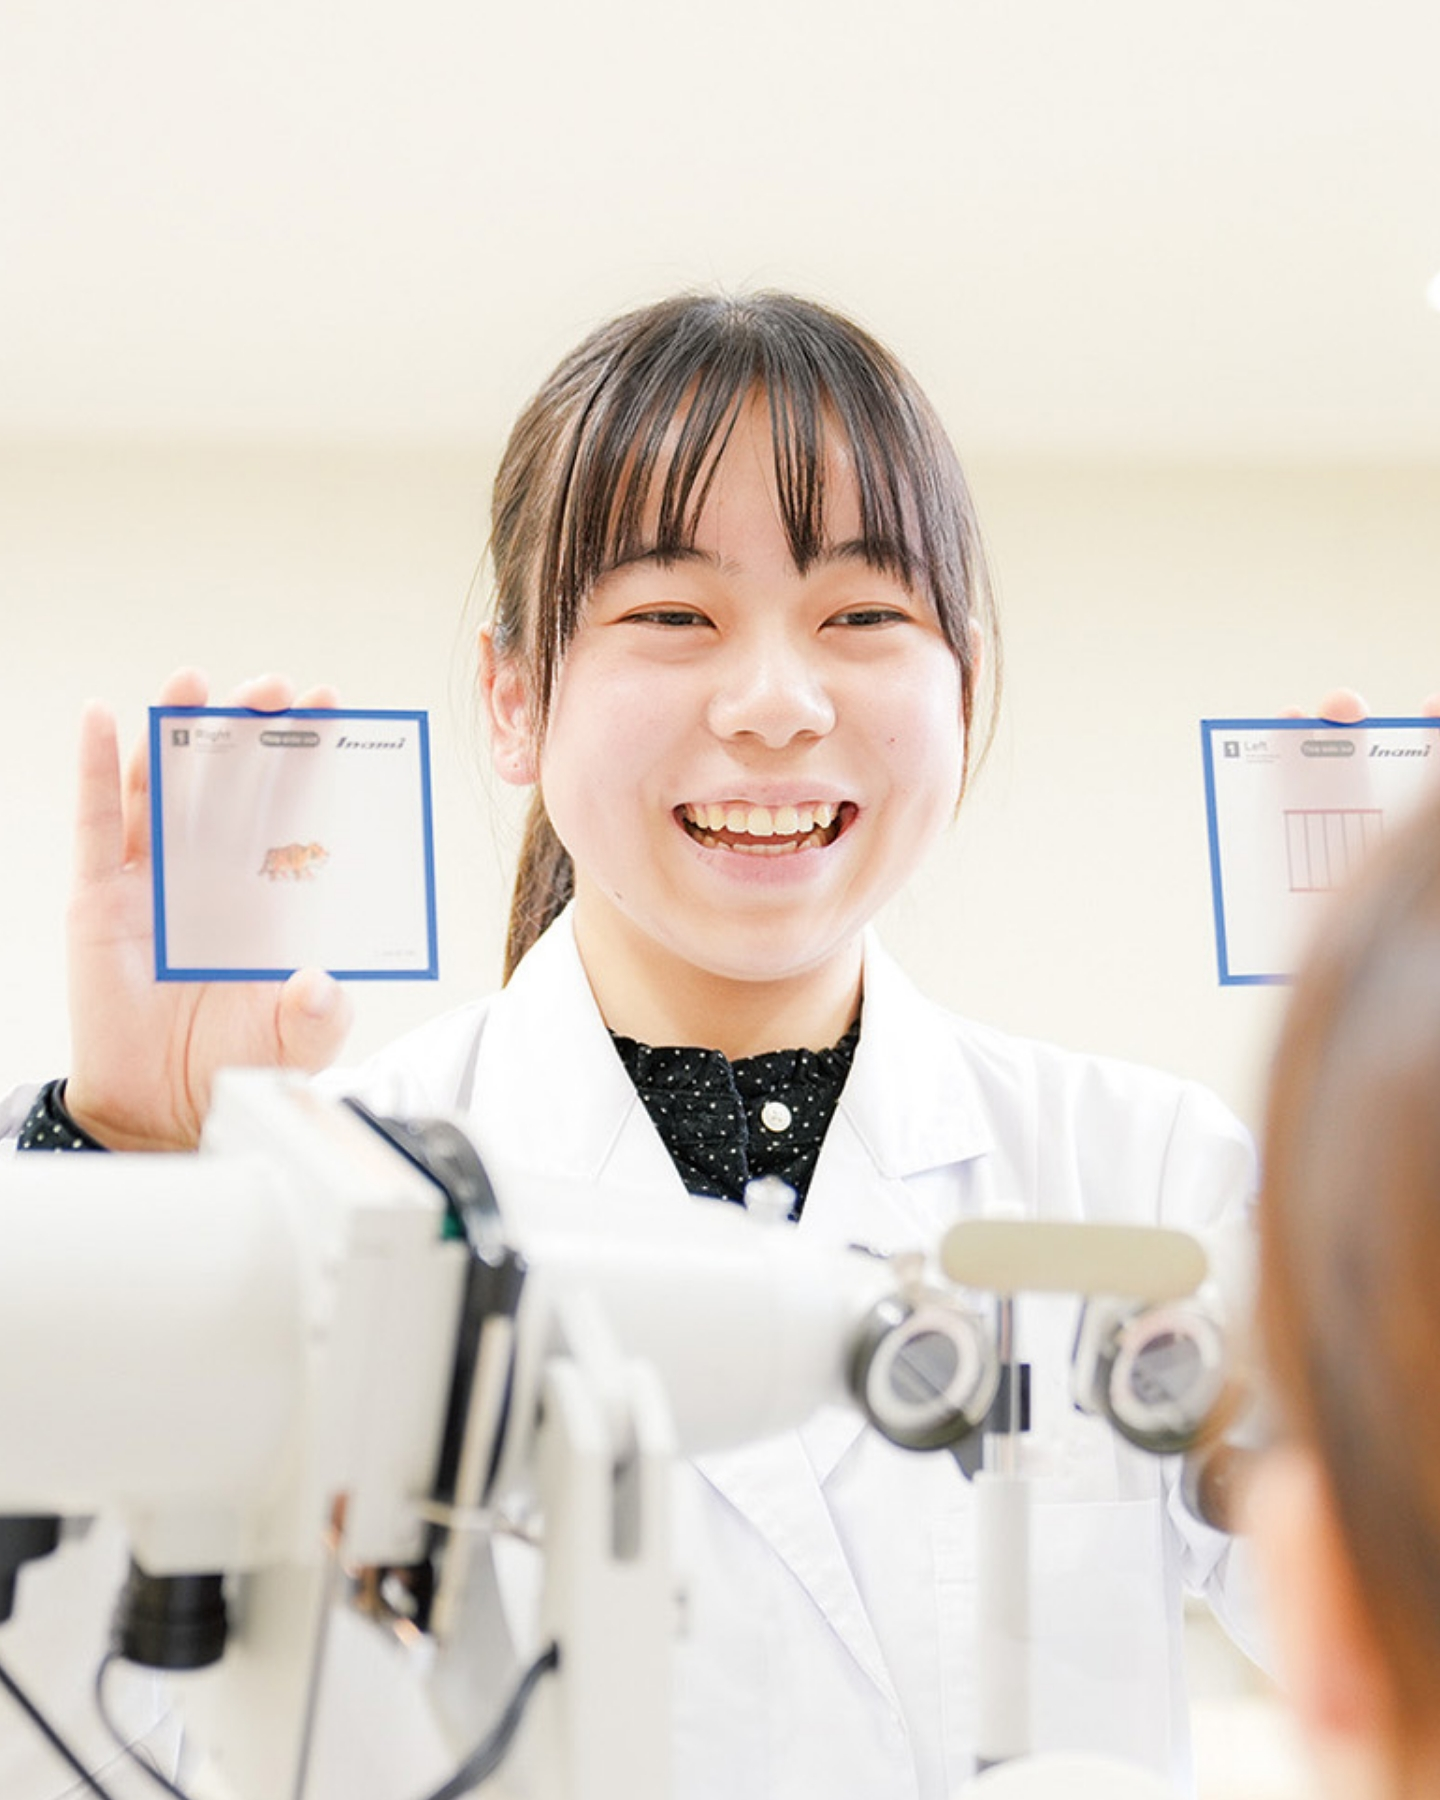
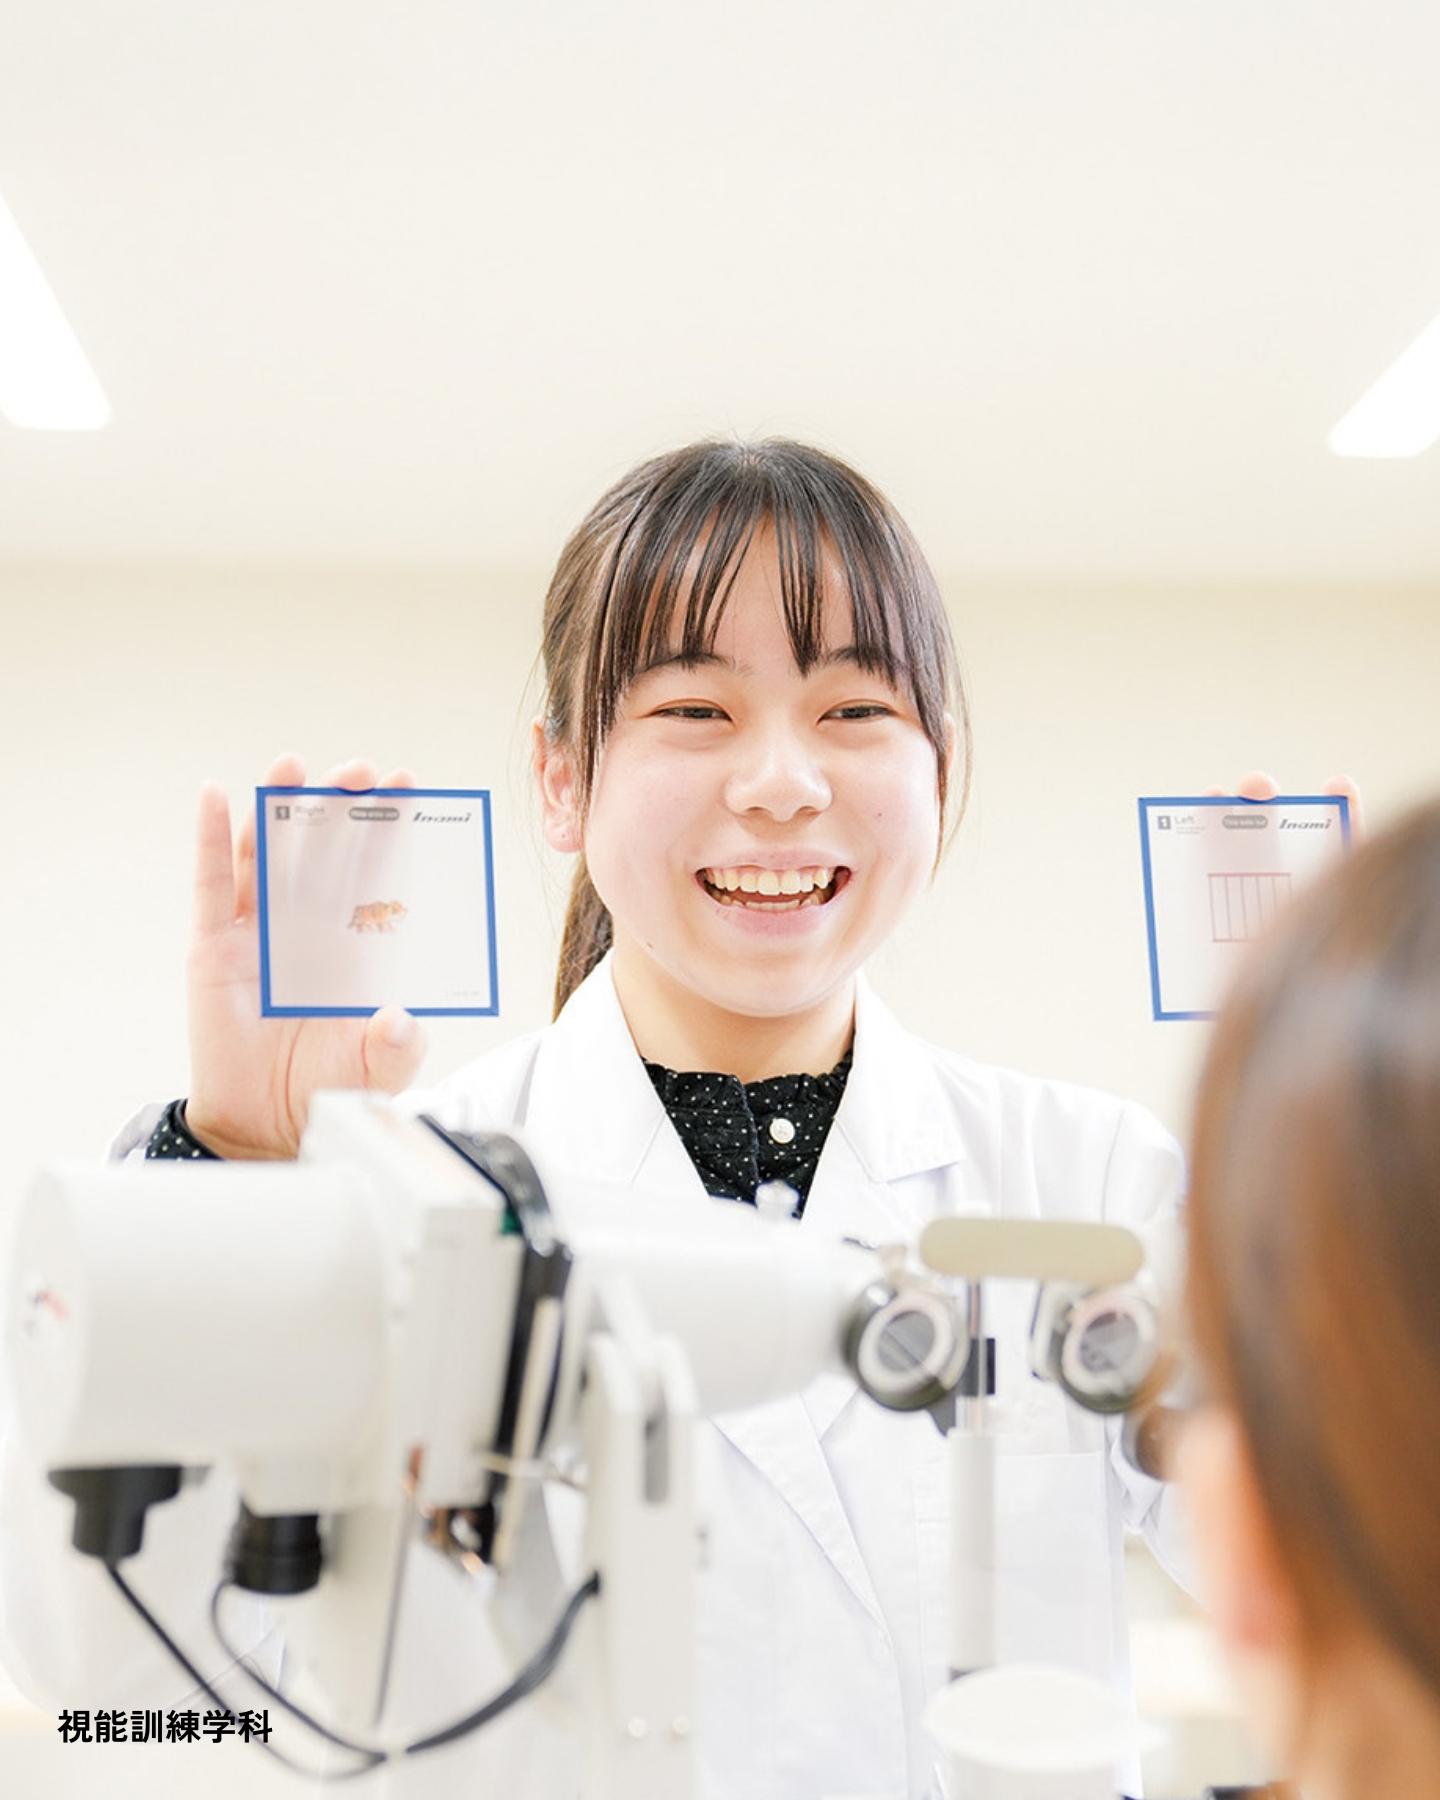
トップMVのSPスライダーをSP用画像に切り替え
- SP時のスライダー画像を mv_XX_sp.jpg（750×460）に変更
- PC用MV画像を差し替え

diff --git a/index.php b/index.php
@@ -50,15 +50,15 @@ include_once $_SERVER['DOCUMENT_ROOT'] . '/header.php';
       <div class="top-mv-sp-row">
         <div class="top-mv-track -left">
           <!-- 1周目 -->
-          <figure class="top-mv-item"><img src="/images/top/mv_01.jpg" alt="実習風景 1" width="375" height="230" loading="eager"></figure>
-          <figure class="top-mv-item"><img src="/images/top/mv_03.jpg" alt="実習風景 3" width="375" height="230" loading="eager"></figure>
-          <figure class="top-mv-item"><img src="/images/top/mv_05.jpg" alt="実習風景 5" width="375" height="230" loading="eager"></figure>
-          <figure class="top-mv-item"><img src="/images/top/mv_07.jpg" alt="実習風景 7" width="375" height="230" loading="eager"></figure>
+          <figure class="top-mv-item"><img src="/images/top/mv_01_sp.jpg" alt="実習風景 1" width="375" height="230" loading="eager"></figure>
+          <figure class="top-mv-item"><img src="/images/top/mv_03_sp.jpg" alt="実習風景 3" width="375" height="230" loading="eager"></figure>
+          <figure class="top-mv-item"><img src="/images/top/mv_05_sp.jpg" alt="実習風景 5" width="375" height="230" loading="eager"></figure>
+          <figure class="top-mv-item"><img src="/images/top/mv_07_sp.jpg" alt="実習風景 7" width="375" height="230" loading="eager"></figure>
           <!-- 2周目 -->
-          <figure class="top-mv-item" aria-hidden="true"><img src="/images/top/mv_01.jpg" alt="" width="375" height="230" loading="eager"></figure>
-          <figure class="top-mv-item" aria-hidden="true"><img src="/images/top/mv_03.jpg" alt="" width="375" height="230" loading="eager"></figure>
-          <figure class="top-mv-item" aria-hidden="true"><img src="/images/top/mv_05.jpg" alt="" width="375" height="230" loading="eager"></figure>
-          <figure class="top-mv-item" aria-hidden="true"><img src="/images/top/mv_07.jpg" alt="" width="375" height="230" loading="eager"></figure>
+          <figure class="top-mv-item" aria-hidden="true"><img src="/images/top/mv_01_sp.jpg" alt="" width="375" height="230" loading="eager"></figure>
+          <figure class="top-mv-item" aria-hidden="true"><img src="/images/top/mv_03_sp.jpg" alt="" width="375" height="230" loading="eager"></figure>
+          <figure class="top-mv-item" aria-hidden="true"><img src="/images/top/mv_05_sp.jpg" alt="" width="375" height="230" loading="eager"></figure>
+          <figure class="top-mv-item" aria-hidden="true"><img src="/images/top/mv_07_sp.jpg" alt="" width="375" height="230" loading="eager"></figure>
         </div>
       </div>
 
@@ -66,15 +66,15 @@ include_once $_SERVER['DOCUMENT_ROOT'] . '/header.php';
       <div class="top-mv-sp-row">
         <div class="top-mv-track -right">
           <!-- 1周目 -->
-          <figure class="top-mv-item"><img src="/images/top/mv_02.jpg" alt="実習風景 2" width="375" height="230" loading="eager"></figure>
-          <figure class="top-mv-item"><img src="/images/top/mv_04.jpg" alt="実習風景 4" width="375" height="230" loading="eager"></figure>
-          <figure class="top-mv-item"><img src="/images/top/mv_06.jpg" alt="実習風景 6" width="375" height="230" loading="eager"></figure>
-          <figure class="top-mv-item"><img src="/images/top/mv_08.jpg" alt="実習風景 8" width="375" height="230" loading="eager"></figure>
+          <figure class="top-mv-item"><img src="/images/top/mv_02_sp.jpg" alt="実習風景 2" width="375" height="230" loading="eager"></figure>
+          <figure class="top-mv-item"><img src="/images/top/mv_04_sp.jpg" alt="実習風景 4" width="375" height="230" loading="eager"></figure>
+          <figure class="top-mv-item"><img src="/images/top/mv_06_sp.jpg" alt="実習風景 6" width="375" height="230" loading="eager"></figure>
+          <figure class="top-mv-item"><img src="/images/top/mv_08_sp.jpg" alt="実習風景 8" width="375" height="230" loading="eager"></figure>
           <!-- 2周目 -->
-          <figure class="top-mv-item" aria-hidden="true"><img src="/images/top/mv_02.jpg" alt="" width="375" height="230" loading="eager"></figure>
-          <figure class="top-mv-item" aria-hidden="true"><img src="/images/top/mv_04.jpg" alt="" width="375" height="230" loading="eager"></figure>
-          <figure class="top-mv-item" aria-hidden="true"><img src="/images/top/mv_06.jpg" alt="" width="375" height="230" loading="eager"></figure>
-          <figure class="top-mv-item" aria-hidden="true"><img src="/images/top/mv_08.jpg" alt="" width="375" height="230" loading="eager"></figure>
+          <figure class="top-mv-item" aria-hidden="true"><img src="/images/top/mv_02_sp.jpg" alt="" width="375" height="230" loading="eager"></figure>
+          <figure class="top-mv-item" aria-hidden="true"><img src="/images/top/mv_04_sp.jpg" alt="" width="375" height="230" loading="eager"></figure>
+          <figure class="top-mv-item" aria-hidden="true"><img src="/images/top/mv_06_sp.jpg" alt="" width="375" height="230" loading="eager"></figure>
+          <figure class="top-mv-item" aria-hidden="true"><img src="/images/top/mv_08_sp.jpg" alt="" width="375" height="230" loading="eager"></figure>
         </div>
       </div>
 
